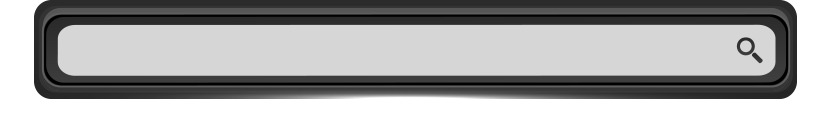
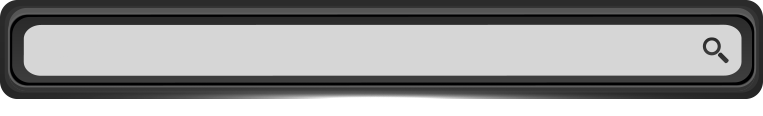
fix rwd search egame page

Changed region(s): [[0.8742, 0.0, 1.0, 0.8534], [0.0, 0.0, 0.0904, 0.8534]]

diff --git a/egames/css/style.css b/egames/css/style.css
@@ -161,21 +161,23 @@ h3.title { margin: 0 0 30px 0; color: #f10a6a;}
 
 /* search
 ============================================*/
-.search_bar { position: absolute; top: 30px; left: 50%; width: 838px; height: 116px; margin: 0 0 0 -416px; background: url(../images/bg_searchbar.png) no-repeat;}
-.search_bar .search { position: absolute; top: 25px; left: 58px; width: 660px; height: 50px; background: none; font-size: 24px;}
-.search_bar .btn_search { display: block; position: absolute; top: 25px; right: 63px; width: 50px; height: 50px;}
-.search_show { position: relative; width: 712px; height: 1099px; margin: 50px auto 0 auto; padding: 0 0 30px 0; background: url(../images/bg_search_show.png) no-repeat;}
-.main .search_show p { display: block; position: absolute; font-size: 24px; font-weight: bold; line-height: 57px; text-align: center; color: #333; white-space:nowrap; overflow: hidden;}
-.main .search_show p span { display: block; margin: 15px 0; line-height: 30px;}
-.search_show .team_title { top: 112px; left: 70px; width: 570px; margin: 0;}
-.search_show .zone { top: 257px; left: 70px; width: 570px;}
-.search_show .summoner_0 { top: 401px; left: 70px; width: 570px; height: 106px;}
-.search_show .summoner_1 { top: 570px; left: 70px; width: 265px; height: 112px;}
-.search_show .summoner_2 { top: 570px; left: 374px; width: 265px; height: 112px;}
-.search_show .summoner_3 { top: 749px; left: 70px; width: 265px; height: 112px;}
-.search_show .summoner_4 { top: 749px; left: 374px; width: 265px; height: 112px;}
-.search_show .summoner_5 { top: 921px; left: 70px; width: 265px; height: 112px;}
-.search_show .summoner_6 { top: 921px; left: 374px; width: 265px; height: 112px;}
+.search_bar { position: absolute; top: 30px; left: 50%; width: 763px; height: auto; margin: 0 0 0 -380px; background: url(../images/bg_searchbar.png) no-repeat; background-size: contain;}
+.search_bar .search { position: absolute ;top: 21.55%; left: 3.14%; width: 85.84%; height: 43.96%; background: none; font-size: 24px;}
+.search_bar .btn_search { display: block; position: absolute; top: 21.55%; right: 2.88%; width: 8.25%; height: 43.96%;}
+.search_show { position: relative; width: 712px; height: auto; margin: 50px auto 30px auto; padding: 0; background: url(../images/bg_search_show.png) no-repeat; background-size: contain;}
+.search_bar img, .search_show img { max-width: 100%;}
+.main .search_show p { display: block; position: absolute; font-size: 24px; font-weight: bold; text-align: center; color: #333; white-space:nowrap; overflow: hidden;}
+.main .search_show p span { display: block; margin: 1% 0;}
+.main .search_show p .name, .main .search_show p .school { margin: 0;}
+.search_show .team_title { top: 10.37%; left: 11.79%; width: 75.84%; height: 4.91%; margin: 0;}
+.search_show .zone { top: 23.47%; left: 11.79%; width: 75.84%; height: 4.91%;}
+.search_show .summoner_0 { top: 36.57%; left: 11.79%; width: 75.84%; height: 9.64%;}
+.search_show .summoner_1 { top: 51.95%; left: 11.79%; width: 33.28%; height: 10.19%;}
+.search_show .summoner_2 { top: 51.95%; left: 54.8%; width: 33.28%; height: 10.19%;}
+.search_show .summoner_3 { top: 68.24%; left: 11.79%; width: 33.28%; height: 10.19%;}
+.search_show .summoner_4 { top: 68.24%; left: 54.8%; width: 33.28%; height: 10.19%;}
+.search_show .summoner_5 { top: 83.8%; left: 11.79%; width: 33.28%; height: 10.19%;}
+.search_show .summoner_6 { top: 83.8%; left: 54.8%; width: 33.28%; height: 10.19%;}
 
 
 /* fighting
@@ -272,6 +274,12 @@ h3.title { margin: 0 0 30px 0; color: #f10a6a;}
     .btn_fb, .btn_line { margin: 30px 20px 0 0; padding: 0 10px 0 45px; background-size: 30px auto; font-size: 16px; line-height: 40px;}
 }
 
+@media screen and (max-width: 763px) {
+    .search_bar { position: relative; top: auto; left: auto; width: 100%; margin: 0; box-sizing: border-box;}
+    .search_show { width: 100%; margin: 30px 0;}
+    .main .search_show p { font-size: 24px;}
+}
+
 @media screen and (max-width: 450px) {
     .e-games .tab li a {width: 103px; font-size: 15px;}
     .tab_regulation { margin: 0 0 30px 0;}
@@ -282,6 +290,8 @@ h3.title { margin: 0 0 30px 0; color: #f10a6a;}
     .footer { text-align: inherit;}
     .footer li { margin: 0 10px 5px 0;}
     .btn_line { margin: 30px 0 30px 0;}
+    .search_bar .search { font-size: 13px;}
+    .main .search_show p { font-size: 14px;}
 }
 
 @media screen and (max-width: 320px) {

diff --git a/egames/search.html b/egames/search.html
@@ -90,7 +90,8 @@
                     <form id="search-form">
                         <input id="team_name_search" type="text" class="search" placeholder="隊名搜尋...">
                         <a href="#main" class="btn_search"></a>
-                        <button type="submit" style="display: none;"></a>
+                        <button type="submit" style="display: none;"></button>
+                        <img src="images/bg_searchbar.png">
                     </form>
                 </div>
                 <div class="search_show">
@@ -124,6 +125,7 @@
                         <span class="name"></span>
                         <span class="school"></span>
                     </p>
+                    <img src="images/bg_search_show.png">
                 </div>
             </div>
         </div>
